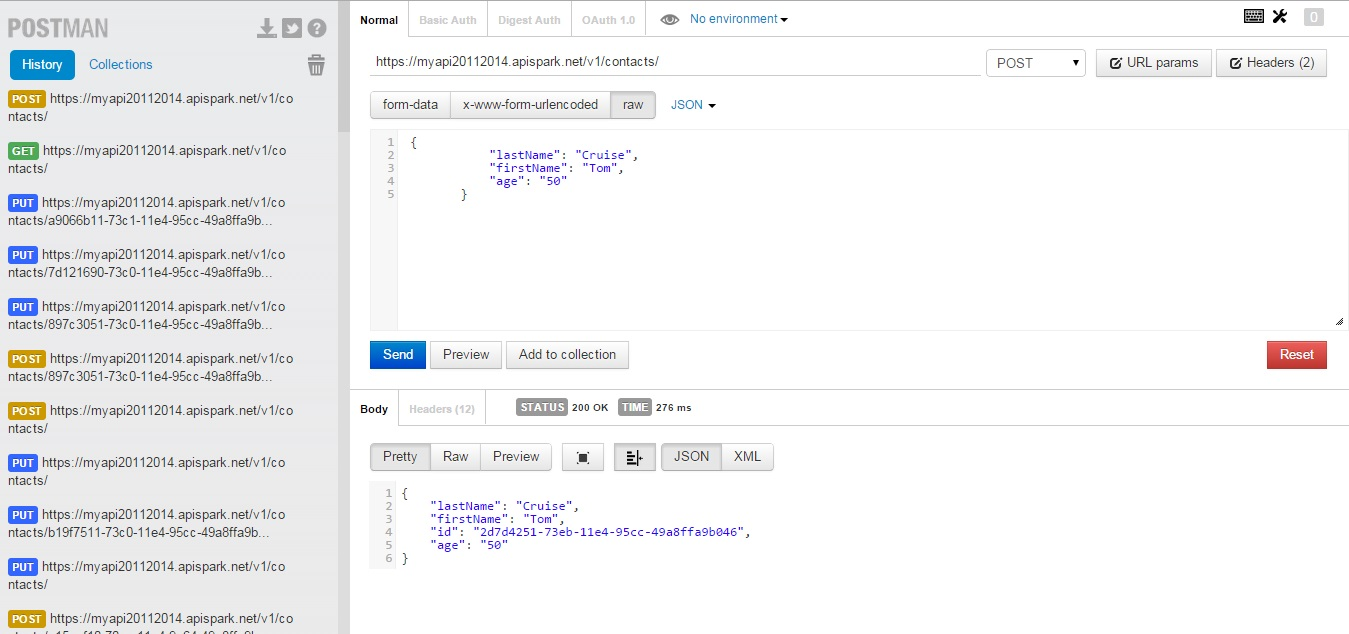
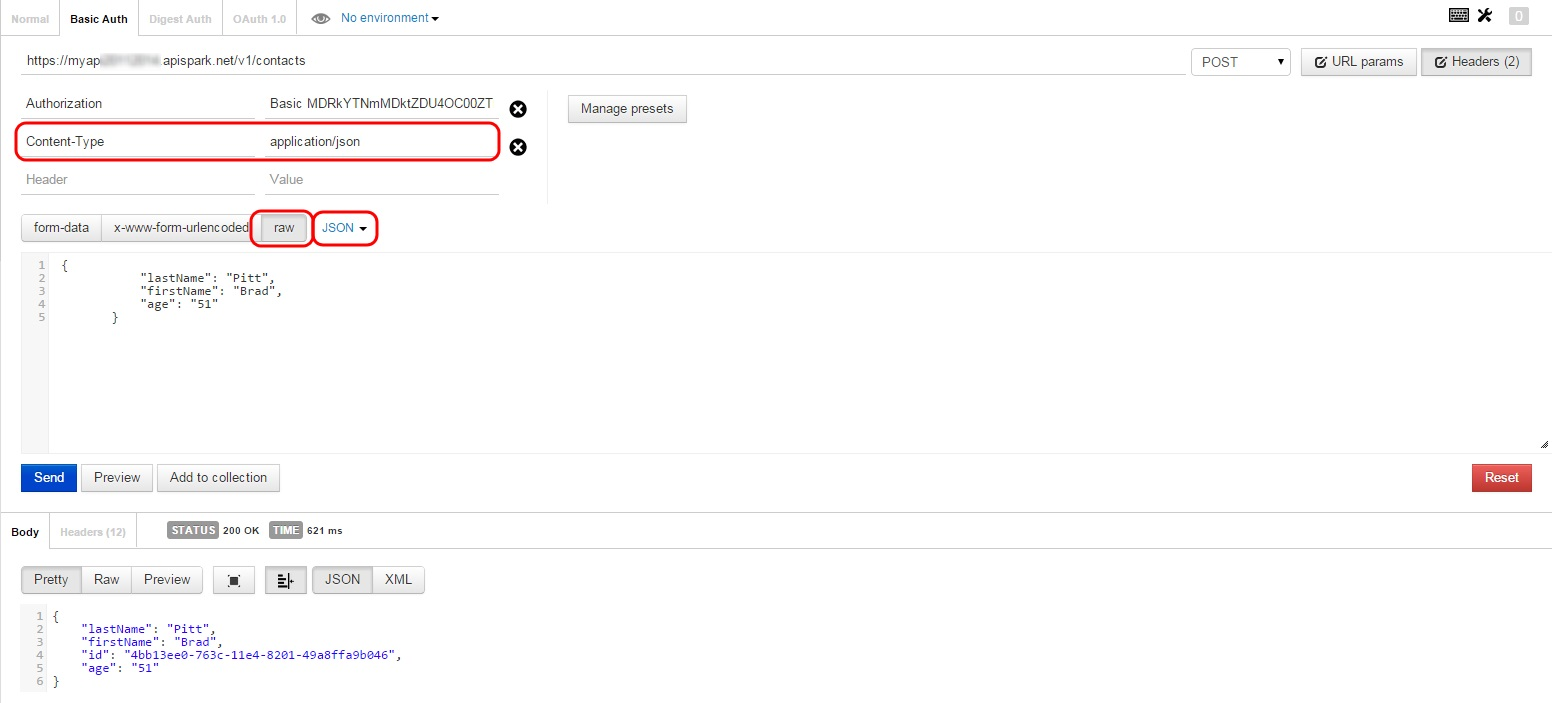
Updated FAQ after Help Desk inputs

diff --git a/modules/com.restlet/tech-doc/apispark/faq/apispark-faq.md b/modules/com.restlet/tech-doc/apispark/faq/apispark-faq.md
@@ -3,8 +3,11 @@
 3. [What is the difference between deploying & publishing my API?](technical-resources/apispark/faq/#3 "What is the difference between deploying & publishing my API?")
 4. [I want a resource to be accessible without authentication](technical-resources/apispark/faq/#4 "I want a resource to be accessible without authentication")
 5. [I cannot find where to download Client SDKs](technical-resources/apispark/faq/#5 "I cannot find where to download Client SDKs")
-6. [I get a 415 error (Unsupported Media Type) when I try to invoke my API](technical-resources/apispark/faq/#6 "I get a 415 error (Unsupported Media Type) when I try to invoke my API")
-7. [I need examples of POST and PUT requests](technical-resources/apispark/faq/#7 "I need examples of POST and PUT requests")
+6. [I get a 400 error (Bad request) when I try to invoke my API](technical-resources/apispark/faq/#6 "I get a 400 error (Bad request) when I try to invoke my API")
+7. [I get a 405 error (Method Not allowed) when I try to invoke my API](technical-resources/apispark/faq/#7 "I get a 405 error (Method Not allowed) when I try to invoke my API")
+8. [I get a 415 error (Unsupported Media Type) when I try to invoke my API](technical-resources/apispark/faq/#8 "I get a 415 error (Unsupported Media Type) when I try to invoke my API")
+9. [I need examples of POST and PUT requests](technical-resources/apispark/faq/#9 "I need examples of POST and PUT requests")
+
 
 # <a name="1"></a>1. I get a 500 error when I try to invoke my API
 Before invoking your API, make sure you call the last version of your API and Data Store. You need to (re)deploy your API and the Data Stores (or/and File Stores) associated.
@@ -83,7 +86,16 @@ Click the **Download** button.
 
 Jump to the [Generate custom client SDKs](technical-resources/apispark/guide/publish/publish/client-sdk "Generate custom client SDKs") section of our user guide for further information.
 
-# <a name="6"></a>6. I get a 415 error (Unsupported Media Type) when I try to invoke my API
+# <a name="6"></a>6. I get a 400 error (Bad request) when I try to invoke my API
+
+Make sure the syntax you are using is valid.
+
+When using <a href="http://www.getpostman.com/" target="_blank">POSTMAN Chrome Extension</a> to invoke your API, you may have entered your content in the address instead of entering it in the input area underneath the Headers.
+
+![POSTMAN POST request](images/postman-400-error.jpg "POSTMAN POST request")
+
+Jump to our [POST and PUT requests examples](#7) for further information.
+# <a name="7"></a>7. I get a 405 error (Method Not Allowed) when I try to invoke my API
 
 Make sure the method you are using is allowed.
 
@@ -91,11 +103,17 @@ Open your API's Overview, in the **Resources** section, click on the resource yo
 
 ![Methods allowed](images/methods-allowed.jpg "Methods allowed")
 
+# <a name="8"></a>8. I get a 415 error (Unsupported Media Type) when I try to invoke my API
+
+Make sure the format used is valid.
+
+When using <a href="http://www.getpostman.com/" target="_blank">POSTMAN Chrome Extension</a> to invoke your API, you may have forgotten to set the **Content Type** Header to **application/json**.
+
 Jump to our [POST and PUT requests examples](#7) for further information.
 
-# <a name="7"></a>7. I need examples of POST and PUT requests
+# <a name="9"></a>9. I need examples of POST and PUT requests
 
-To perform your POST and PUT requests, of course you can directly use your web browser, but we recommend that you use <a href="https://chrome.google.com/webstore/detail/postman-rest-client/fdmmgilgnpjigdojojpjoooidkmcomcm" target="_blank">POSTMAN Chrome Extension</a> that gives you a graphical view of your requests.
+To perform your POST and PUT requests, of course you can directly use your web browser, but we recommend that you use <a href="http://www.getpostman.com/" target="_blank">POSTMAN Chrome Extension</a> that gives you a graphical view of your requests.
 
 Open your API's Overview page.  
 Click on the relevant endpoint.  
@@ -105,23 +123,19 @@ Paste them in POSTMAN to access your API.
 ## POST request
 
 Paste your API Endpoint URI followed by your resource name in POSTMAN e.g. https://myapi.apispark.net/v1/contacts.  
-Select the POST request from the drop-down menu.  
+Select the **POST** request from the drop-down menu.
+Make sure **raw** format and **JSON** language are selected.  
+Set **Content Type** Header to **application/json**.  
 Enter your new entry in the input area underneath and click **Send**. The new entry displays in the bottom section of the screen.  
 
 ![POSTMAN POST request](images/postman-post-request.jpg "POSTMAN POST request")
 
-
->**Note:** Make sure your headers are set as shown below.
-![POSTMAN Headers](images/postman-headers.jpg "POSTMAN Headers")
-
 ## PUT request
 
 Paste your API Endpoint URI followed by your resource name and the entry you want to modify in POSTMAN e.g. https://myapi.apispark.net/v1/contacts/{contactid}.  
-Select the PUT request from the drop-down menu.  
+Select the **PUT** request from the drop-down menu.  
+Make sure **raw** format and **JSON** language are selected.  
+Set **Content Type** Header to **application/json**.  
 Enter your modifications in the input area underneath and click **Send**. The updated entry displays in the bottom section of the screen.  
 
 ![POSTMAN PUT request](images/postman-put-request.jpg "POSTMAN PUT request")
-
-
->**Note:** Make sure your headers are set as shown below.
-![POSTMAN Headers](images/postman-headers.jpg "POSTMAN Headers")
